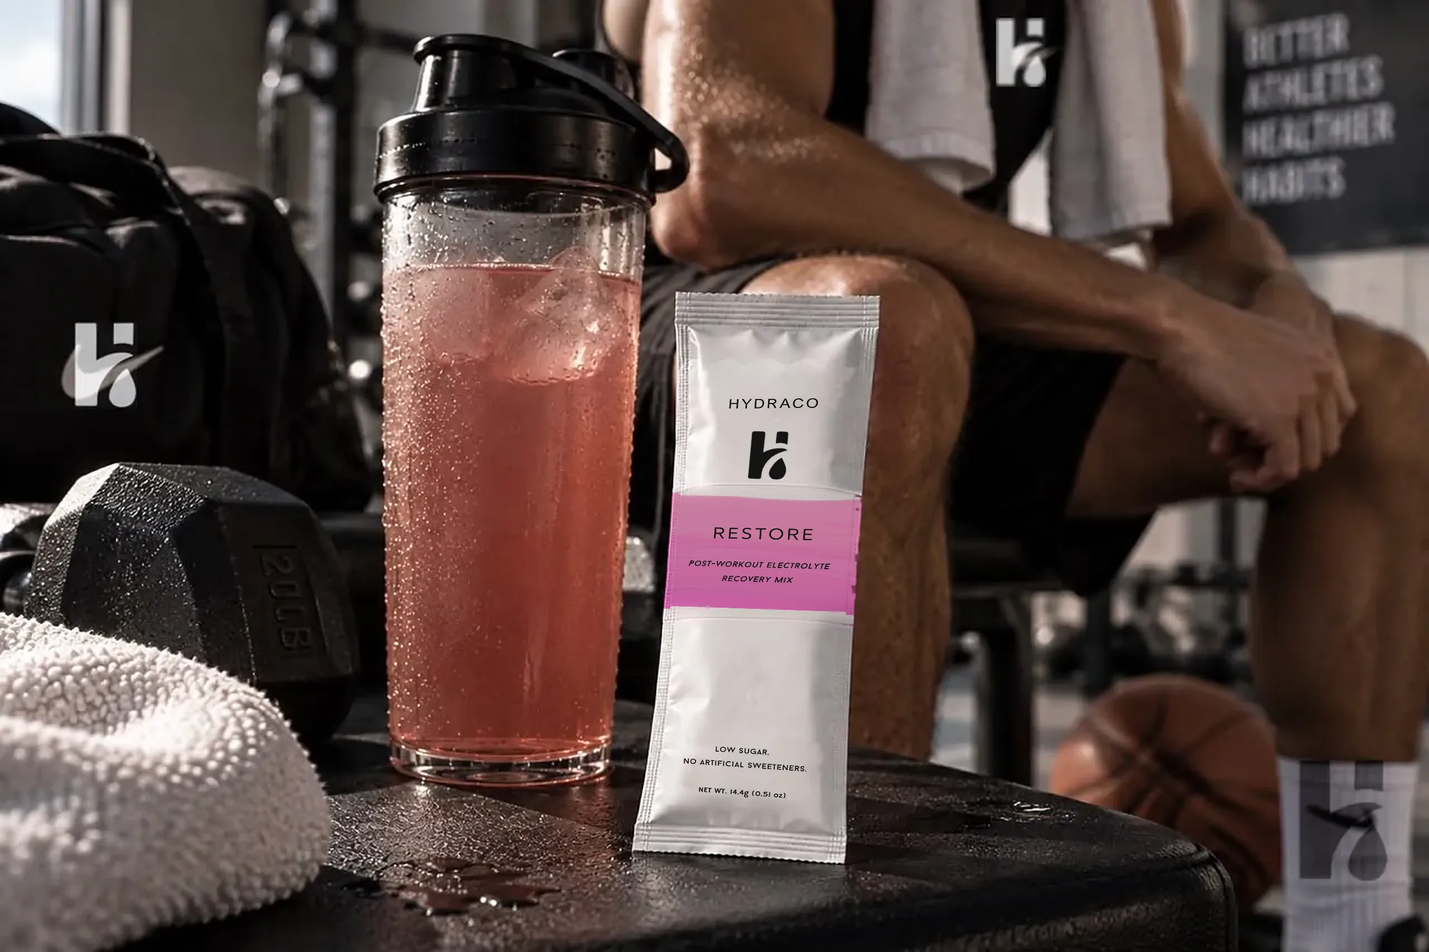
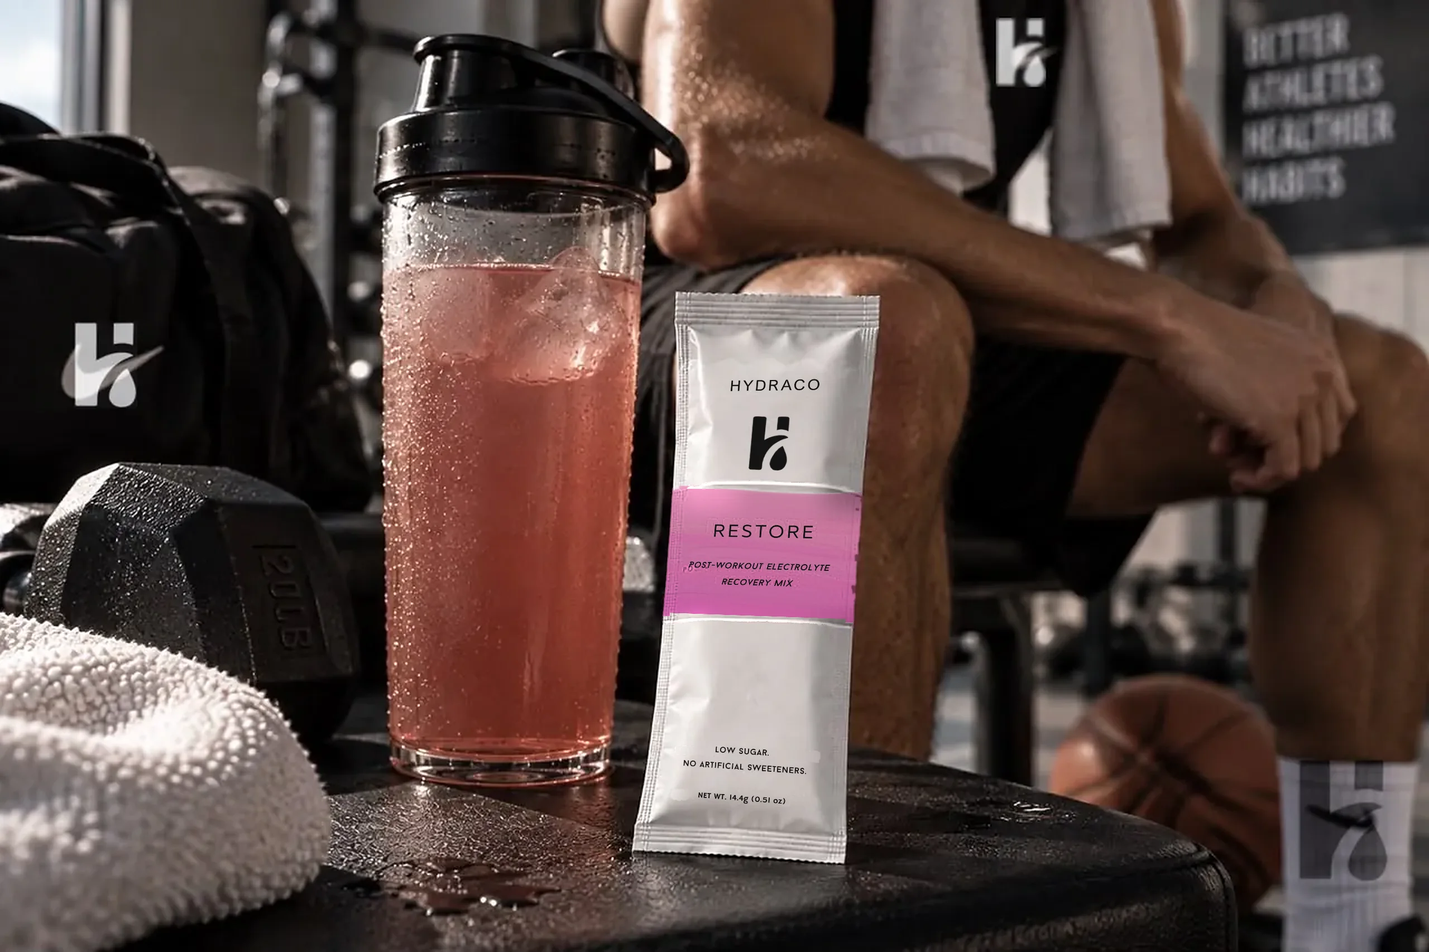
Printed-on pack labels, overflowing cup, printed stick pack, pinned nav
- Re-print pack labels so they take on the foil's own wrinkles, crimps
  and sheen (smooth light x real texture, only changed pixels replaced)
- The sketched cup spills past full: particle fluid with gravity,
  pressure, viscosity and cohesion; tilting pours from the low lip
- Drawn stick pack is a white printed pouch with crimped seals, no label
- Nav stays pinned (overflow-x:clip so sticky works); more logo spacing

Changed region(s): [[0.4688, 0.4039, 0.625, 0.5592], [0.4688, 0.5903, 0.5938, 0.6524], [0.5, 0.7767, 0.5625, 0.8388]]

diff --git a/index.html b/index.html
@@ -22,13 +22,13 @@
 <meta property="og:title" content="Hydraco Restore — Post-Workout Electrolyte Recovery Mix">
 <meta property="og:description" content="Hydraco Restore is a strawberry lemonade post-workout electrolyte recovery mix — low sugar, no artificial sweeteners, with tart cherry and pomegranate. Designed for recovery, not stimulation.">
 <meta property="og:url" content="https://www.drinkhydraco.com/">
-<meta property="og:image" content="https://www.drinkhydraco.com/images/og.jpg?v=pack3">
+<meta property="og:image" content="https://www.drinkhydraco.com/images/og.jpg?v=pack5">
 <meta property="og:image:width" content="1200">
 <meta property="og:image:height" content="630">
 <meta property="og:image:alt" content="A Hydraco Restore stick pack beside a glass of the prepared drink in a gym">
 <meta name="twitter:card" content="summary_large_image">
-<meta name="twitter:image" content="https://www.drinkhydraco.com/images/og.jpg?v=pack3">
-<script type="application/ld+json">[{"@context": "https://schema.org", "@type": "Organization", "name": "Hydraco", "url": "https://www.drinkhydraco.com/", "logo": "https://www.drinkhydraco.com/images/apple-touch-icon.png", "email": "hydracompanymd@gmail.com", "sameAs": ["https://www.instagram.com/hydracofficial"]}, {"@context": "https://schema.org", "@type": "Product", "name": "Hydraco Restore", "description": "Hydraco Restore is a strawberry lemonade post-workout electrolyte recovery mix — low sugar, no artificial sweeteners, with tart cherry and pomegranate. Designed for recovery, not stimulation.", "image": "https://www.drinkhydraco.com/images/og.jpg?v=pack3", "brand": {"@type": "Brand", "name": "Hydraco"}, "category": "Electrolyte drink mix", "offers": {"@type": "AggregateOffer", "priceCurrency": "USD", "lowPrice": "2.45", "highPrice": "89.55", "offerCount": 4, "availability": "https://schema.org/InStock", "url": "https://www.drinkhydraco.com/#order"}}, {"@context": "https://schema.org", "@type": "FAQPage", "mainEntity": [{"@type": "Question", "name": "How do I use it?", "acceptedAnswer": {"@type": "Answer", "text": "Pour one stick pack into 16–32 oz of cold water, shake or stir, and drink it after training. One stick is one serving."}}, {"@type": "Question", "name": "How do I pay?", "acceptedAnswer": {"@type": "Answer", "text": "By Zelle, Apple Cash, or card — pick one in the order form. Card and Apple Pay payments go through Stripe's secure checkout; we never see or store your card number."}}, {"@type": "Question", "name": "Where do you deliver, and what does it cost?", "acceptedAnswer": {"@type": "Answer", "text": "Delivery is free in NYC and in Maryland, D.C. and Virginia, within about an hour of our office. Anywhere else, including internationally, email us for a delivery quote before you order."}}, {"@type": "Question", "name": "When will my order arrive?", "acceptedAnswer": {"@type": "Answer", "text": "Usually within a few days. Restore is made in small batches and orders are filled in the order they come in; we email you to confirm your delivery date, usually within one business day."}}, {"@type": "Question", "name": "How should I store it?", "acceptedAnswer": {"@type": "Answer", "text": "In a cool, dry place. Best before January 2027."}}, {"@type": "Question", "name": "Is it safe for me?", "acceptedAnswer": {"@type": "Answer", "text": "It's a food, not a medicine. The full notice, allergen and cottage-food details are in the footer below."}}]}]</script>
+<meta name="twitter:image" content="https://www.drinkhydraco.com/images/og.jpg?v=pack5">
+<script type="application/ld+json">[{"@context": "https://schema.org", "@type": "Organization", "name": "Hydraco", "url": "https://www.drinkhydraco.com/", "logo": "https://www.drinkhydraco.com/images/apple-touch-icon.png", "email": "hydracompanymd@gmail.com", "sameAs": ["https://www.instagram.com/hydracofficial"]}, {"@context": "https://schema.org", "@type": "Product", "name": "Hydraco Restore", "description": "Hydraco Restore is a strawberry lemonade post-workout electrolyte recovery mix — low sugar, no artificial sweeteners, with tart cherry and pomegranate. Designed for recovery, not stimulation.", "image": "https://www.drinkhydraco.com/images/og.jpg?v=pack5", "brand": {"@type": "Brand", "name": "Hydraco"}, "category": "Electrolyte drink mix", "offers": {"@type": "AggregateOffer", "priceCurrency": "USD", "lowPrice": "2.45", "highPrice": "89.55", "offerCount": 4, "availability": "https://schema.org/InStock", "url": "https://www.drinkhydraco.com/#order"}}, {"@context": "https://schema.org", "@type": "FAQPage", "mainEntity": [{"@type": "Question", "name": "How do I use it?", "acceptedAnswer": {"@type": "Answer", "text": "Pour one stick pack into 16–32 oz of cold water, shake or stir, and drink it after training. One stick is one serving."}}, {"@type": "Question", "name": "How do I pay?", "acceptedAnswer": {"@type": "Answer", "text": "By Zelle, Apple Cash, or card — pick one in the order form. Card and Apple Pay payments go through Stripe's secure checkout; we never see or store your card number."}}, {"@type": "Question", "name": "Where do you deliver, and what does it cost?", "acceptedAnswer": {"@type": "Answer", "text": "Delivery is free in NYC and in Maryland, D.C. and Virginia, within about an hour of our office. Anywhere else, including internationally, email us for a delivery quote before you order."}}, {"@type": "Question", "name": "When will my order arrive?", "acceptedAnswer": {"@type": "Answer", "text": "Usually within a few days. Restore is made in small batches and orders are filled in the order they come in; we email you to confirm your delivery date, usually within one business day."}}, {"@type": "Question", "name": "How should I store it?", "acceptedAnswer": {"@type": "Answer", "text": "In a cool, dry place. Best before January 2027."}}, {"@type": "Question", "name": "Is it safe for me?", "acceptedAnswer": {"@type": "Answer", "text": "It's a food, not a medicine. The full notice, allergen and cottage-food details are in the footer below."}}]}]</script>
 <meta name="theme-color" content="#00a9ac">
 <link rel="preconnect" href="https://fonts.googleapis.com">
 <link rel="preconnect" href="https://fonts.gstatic.com" crossorigin>
@@ -113,7 +113,9 @@
    every element's own box stays within the viewport - overflow-x:hidden
    on body alone doesn't stop it (that only clips body's own box; the
    root/viewport scroller still allows the drag). Needs to be on html too. */
-html{overflow-x:hidden}
+/* clip, not hidden: hidden turns html/body into scroll containers, which
+   silently breaks the sticky nav; clip stops sideways scroll without that */
+html{overflow-x:hidden;overflow-x:clip}
 /* on a phone every text size steps up a notch - the small labels and notes
    were the hard part to read */
 @media (max-width:640px){ html{font-size:17.5px} }
@@ -128,7 +130,7 @@ body{
   letter-spacing:.015em;
   font-weight:400;
   -webkit-font-smoothing:antialiased;
-  overflow-x:hidden;
+  overflow-x:hidden;overflow-x:clip;
 }
 
 img{max-width:100%;display:block}
@@ -179,7 +181,7 @@ section{padding-block:clamp(84px,11vw,168px)}
   border-bottom:1px solid var(--rule);
 }
 .nav-in{display:flex;align-items:center;gap:clamp(16px,3vw,44px);height:66px}
-.brand{display:flex;align-items:center;gap:11px;text-decoration:none;color:var(--ink)}
+.brand{display:flex;align-items:center;gap:18px;text-decoration:none;color:var(--ink)}
 .mark{
   width:19px;height:29px;flex:none;
   background-color:#000;--mark-base:#000;
@@ -696,6 +698,35 @@ body.fun-mode .pack-hint.hidden{transform:rotate(-9deg) translateY(-6px)}
 .pack-foot{margin-top:auto;text-align:center;color:#000}
 .pack-foot b{display:block;font-size:.5rem;letter-spacing:.14em;line-height:1.9;text-transform:uppercase;font-weight:700}
 .pack-foot span{display:block;margin-top:12px;font-size:.5rem;letter-spacing:.08em;font-weight:700;color:#000}
+/* printed straight onto a white stick pack, like the real one - no
+   separate label: matte white film, soft shading where it curves at the
+   sides, and crimped heat seals at both ends */
+.pack{
+  padding:0;border:none;border-radius:2px;
+  background:
+    linear-gradient(180deg, rgba(255,255,255,.0) 0%, rgba(255,255,255,.35) 40%, rgba(0,0,0,.025) 100%),
+    linear-gradient(90deg, #dfe1e1 0%, #f3f4f3 7%, #fdfdfc 22%, #ffffff 50%, #f9f9f8 78%, #eceded 93%, #dcdede 100%);
+  box-shadow:0 1px 2px rgba(14,20,20,.12), 0 18px 40px -18px rgba(14,40,40,.35);
+}
+.pack::before,.pack::after{
+  content:"";position:absolute;left:0;right:0;height:5.5%;z-index:1;pointer-events:none;
+  background:
+    repeating-linear-gradient(180deg, rgba(0,0,0,.075) 0 1px, rgba(255,255,255,.6) 1px 2px, transparent 2px 4px),
+    linear-gradient(90deg, #d9dbdb, #f1f2f1 20%, #f7f7f6 50%, #eeefee 80%, #d7d9d9);
+}
+.pack::before{top:0}
+.pack::after{bottom:0}
+.pack-tear{
+  background:
+    repeating-linear-gradient(180deg, rgba(0,0,0,.075) 0 1px, rgba(255,255,255,.6) 1px 2px, transparent 2px 4px),
+    linear-gradient(90deg, #d9dbdb, #f1f2f1 20%, #f7f7f6 50%, #eeefee 80%, #d7d9d9);
+  height:5.5%;
+}
+.pack-seal{display:none}
+.pack-sticker{
+  background:transparent;box-shadow:none;border-radius:0;
+  padding:calc(20px + 5.5%) 14px calc(16px + 5.5%);
+}
 
 /* ---------- marquee strip ---------- */
 .strip{
@@ -2051,7 +2082,7 @@ body.fun-mode .galaxy-bg{opacity:1}
 /* sits under the order form now, so Order lands straight on the packs + fields */
 /* "Order" links land on the heading, packs and form, not on empty padding:
    skip the section's top padding, stopping just under the sticky nav */
-#order{scroll-margin-top:calc(18px - clamp(84px,11vw,168px))}
+#order{scroll-margin-top:calc(78px - clamp(84px,11vw,168px))}
 .order .sec-head{gap:14px;margin-bottom:0;max-width:none;align-items:flex-start}
 .order .sec-head h2 br{display:none}
 .order .sec-head p{max-width:62ch;font-size:1.02rem !important;line-height:1.6 !important}
@@ -2215,7 +2246,7 @@ body.fun-mode .galaxy-bg{opacity:1}
     </div>
 
     <div class="hero-photo rv">
-      <img src="/images/hero.webp?v=pack4" class="photo-frame" alt="HYDRACO Restore post-workout electrolyte recovery mix packet, standing beside a glass of the prepared drink" width="853" height="1280" fetchpriority="high">
+      <img src="/images/hero.webp?v=pack5" class="photo-frame" alt="HYDRACO Restore post-workout electrolyte recovery mix packet, standing beside a glass of the prepared drink" width="853" height="1280" fetchpriority="high">
     </div>
   </header>
 
@@ -2235,7 +2266,7 @@ body.fun-mode .galaxy-bg{opacity:1}
   <section id="why">
    <div class="why-grid">
     <div class="why-photo rv">
-      <img src="/images/why-recovery.webp?v=pack3" class="photo-frame" alt="HYDRACO Restore electrolyte recovery drink after training" loading="lazy" decoding="async" width="1280" height="853">
+      <img src="/images/why-recovery.webp?v=pack5" class="photo-frame" alt="HYDRACO Restore electrolyte recovery drink after training" loading="lazy" decoding="async" width="1280" height="853">
     </div>
     <div class="why-text rv">
     <div class="sec-head">
@@ -2273,7 +2304,7 @@ body.fun-mode .galaxy-bg{opacity:1}
 
   <!-- ============ GYM / RECOVERY BAND ============ -->
   <div class="gym-band rv" aria-label="HYDRACO Restore in a post-workout gym setting">
-    <img src="/images/gym-band.webp?v=pack4" alt="HYDRACO Restore electrolyte packet and drink in a post-workout gym setting" loading="lazy" decoding="async" width="1280" height="853">
+    <img src="/images/gym-band.webp?v=pack5" alt="HYDRACO Restore electrolyte packet and drink in a post-workout gym setting" loading="lazy" decoding="async" width="1280" height="853">
     <div class="gym-band-copy">
       <p>Built for the hours after, not the minutes during.</p>
     </div>
@@ -2488,8 +2519,8 @@ body.fun-mode .galaxy-bg{opacity:1}
         </div>
 
         <div class="inside-photos rv">
-          <img src="/images/inside-packet.webp?v=pack4" class="photo-frame" alt="HYDRACO Restore electrolyte packet beside a glass of the prepared electrolyte drink" loading="lazy" width="608" height="760">
-          <img src="/images/inside-pour.webp?v=pack4" class="photo-frame" alt="HYDRACO Restore electrolyte powder being poured into an iced drink" loading="lazy" width="760" height="506">
+          <img src="/images/inside-packet.webp?v=pack5" class="photo-frame" alt="HYDRACO Restore electrolyte packet beside a glass of the prepared electrolyte drink" loading="lazy" width="608" height="760">
+          <img src="/images/inside-pour.webp?v=pack5" class="photo-frame" alt="HYDRACO Restore electrolyte powder being poured into an iced drink" loading="lazy" width="760" height="506">
         </div>
       </div>
 
@@ -2912,7 +2943,7 @@ body.fun-mode .galaxy-bg{opacity:1}
       </form>
 
       <div class="preorder-photo rv">
-        <img src="/images/preorder.webp?v=pack4" class="photo-frame" alt="Three HYDRACO Restore electrolyte recovery mix packets" loading="lazy" width="720" height="900">
+        <img src="/images/preorder.webp?v=pack5" class="photo-frame" alt="Three HYDRACO Restore electrolyte recovery mix packets" loading="lazy" width="720" height="900">
       </div>
 
     </div>
@@ -4631,10 +4662,235 @@ document.querySelectorAll(".ingx-bar > span").forEach(el => barIO.observe(el));
     }
   }
 
-  art.addEventListener("mouseenter", () => setLevel(level + 0.025));
-  art.addEventListener("click", () => { setLevel(level + 0.07); sprinkle(16); });
+  /* ---- overflow: past full, the extra spills over the rim as real fluid ----
+     The surface stays level, so tipping the cup lowers its rim on one side:
+     anything above that lip spills and the level drops by what spilled.
+     The spill is a small particle fluid (double-density relaxation, after
+     Clavet et al.) with gravity, pressure, viscosity and cohesion - it runs
+     down the glass, drips off, splashes and pools, and never quite the same
+     way twice. */
+  const CUP = { rimL:[250,176], rimR:[438,176], baseR:[412,432], baseL:[276,432] };
+  const LIQ_H = 160, RIM_HALF = 94;
+  function capacity(){
+    const t = Math.tan(Math.min(80, Math.abs(tiltDeg)) * Math.PI / 180);
+    return Math.max(0.2, MAX_LEVEL - (RIM_HALF * t) / LIQ_H);
+  }
+  function pour(d){
+    const want = level + d, cap = capacity();
+    if (want > cap + 0.001){ overflow(want - Math.max(cap, level)); setLevel(cap); }
+    else { setLevel(want); }
+  }
+  const fluid = (function(){
+    let cv = null, ctx = null, running = false, last = 0, color = "#fb4fc0";
+    const P = [];                 // particles, in page coordinates
+    const H = 11, REST = 4, K = 1400, KNEAR = 2600, G = 2300;
+    function ensure(){
+      if (cv) { return; }
+      cv = document.createElement("canvas");
+      cv.setAttribute("aria-hidden", "true");
+      cv.style.cssText = "position:fixed;inset:0;width:100vw;height:100vh;pointer-events:none;z-index:60";
+      document.body.appendChild(cv);
+      ctx = cv.getContext("2d");
+      size();
+      window.addEventListener("resize", size);
+    }
+    function size(){
+      const dpr = Math.min(2, window.devicePixelRatio || 1);
+      cv.width = Math.round(innerWidth * dpr); cv.height = Math.round(innerHeight * dpr);
+      ctx.setTransform(dpr, 0, 0, dpr, 0, 0);
+    }
+    function geom(){
+      const ref = art.querySelector(".cup-outline");
+      const m = ref && ref.getScreenCTM && ref.getScreenCTM();
+      if (!m) { return null; }
+      const pt = (xy) => { const q = new DOMPoint(xy[0], xy[1]).matrixTransform(m); return [q.x + scrollX, q.y + scrollY]; };
+      const g = { rimL:pt(CUP.rimL), rimR:pt(CUP.rimR), baseR:pt(CUP.baseR), baseL:pt(CUP.baseL) };
+      const sr = stage.getBoundingClientRect();
+      g.floorY = Math.max(g.baseL[1], g.baseR[1]);
+      g.floorX0 = sr.left + scrollX - 30; g.floorX1 = sr.right + scrollX + 30;
+      g.poly = [g.rimL, g.rimR, g.baseR, g.baseL];
+      g.scale = Math.hypot(g.rimR[0] - g.rimL[0], g.rimR[1] - g.rimL[1]) / 188;
+      return g;
+    }
+    let G0 = null;
+    function spawn(n){
+      if (REDUCED) { return; }
+      ensure();
+      color = getComputedStyle(document.documentElement).getPropertyValue("--pink").trim() || color;
+      G0 = geom(); if (!G0) { return; }
+      // which lip: the lower one when tipped, otherwise either - or both
+      const lowRight = G0.rimR[1] > G0.rimL[1] + 1, lowLeft = G0.rimL[1] > G0.rimR[1] + 1;
+      const r = Math.random();
+      const sides = lowRight ? ["R"] : lowLeft ? ["L"] : (r < 0.42 ? ["L"] : r < 0.84 ? ["R"] : ["L", "R"]);
+      const slosh = (Math.random() - 0.5) * 120;   // the surface is never still
+      const burst = 0.6 + Math.random() * 0.9;     // some pours gush, some trickle
+      // liquid leaves a rim in a few uneven glugs, each one a connected clump
+      const glugs = 2 + Math.floor(Math.random() * 3);
+      const glugAt = Array.from({ length: glugs }, (_, g) => g * (110 + Math.random() * 160) + Math.random() * 40);
+      for (let i = 0; i < n; i++){
+        const side = sides[i % sides.length];
+        const lip = side === "R" ? G0.rimR : G0.rimL, out = side === "R" ? 1 : -1;
+        const delay = glugAt[i % glugs] + Math.random() * 70;
+        setTimeout(() => {
+          if (P.length > 900) { return; }
+          P.push({
+            // spread along the lip at roughly the fluid's rest spacing
+            x: lip[0] + out * (1 + Math.random() * 7) * G0.scale,
+            y: lip[1] - (1 + Math.random() * 7) * G0.scale,
+            vx: out * (8 + Math.random() * 70) * burst + slosh * 0.4 * Math.random(),
+            vy: -25 * Math.random() * burst + 15,
+            px: 0, py: 0, age: 0,
+            life: 5 + Math.random() * 4,
+            stick: Math.random() < 0.55,          // some cling to the glass, some let go
+            r: (3 + Math.random() * 2) * Math.max(0.7, G0.scale)
+          });
+          if (!running){ running = true; last = performance.now(); requestAnimationFrame(step); }
+        }, delay);
+      }
+    }
+    function insideCup(x, y, poly){
+      for (let i = 0; i < 4; i++){
+        const a = poly[i], b = poly[(i + 1) % 4];
+        if ((b[0] - a[0]) * (y - a[1]) - (b[1] - a[1]) * (x - a[0]) < 0) { return false; }
+      }
+      return true;
+    }
+    function nearestEdge(x, y, poly){
+      let best = null;
+      for (let i = 0; i < 4; i++){
+        const a = poly[i], b = poly[(i + 1) % 4];
+        const ex = b[0] - a[0], ey = b[1] - a[1], L2 = ex * ex + ey * ey;
+        const t = Math.max(0, Math.min(1, ((x - a[0]) * ex + (y - a[1]) * ey) / L2));
+        const qx = a[0] + ex * t, qy = a[1] + ey * t, d = Math.hypot(x - qx, y - qy);
+        if (!best || d < best.d){ const L = Math.sqrt(L2); best = { d, qx, qy, nx: ey / L, ny: -ex / L, i }; }
+      }
+      return best;
+    }
+    function step(now){
+      const dt = Math.min(1 / 30, (now - last) / 1000) || 1 / 60; last = now;
+      G0 = geom() || G0;
+      if (!G0){ running = false; return; }
+      const sub = 2, h = dt / sub, poly = G0.poly;
+      // the poly winds clockwise on screen (y down) - normals from nearestEdge point outward
+      for (let s = 0; s < sub; s++){
+        for (const p of P){
+          p.vy += G * h;
+          p.px = p.x; p.py = p.y;
+          p.x += p.vx * h; p.y += p.vy * h;
+        }
+        // neighbours via a spatial hash
+        const grid = new Map(), key = (i, j) => i * 73856093 ^ j * 19349663;
+        P.forEach((p, idx) => {
+          const k = key(Math.floor(p.x / H), Math.floor(p.y / H));
+          let c = grid.get(k); if (!c){ c = []; grid.set(k, c); } c.push(idx);
+        });
+        const pairs = [];
+        P.forEach((p, i) => {
+          const ci = Math.floor(p.x / H), cj = Math.floor(p.y / H);
+          let rho = 0, rhoN = 0; const nb = [];
+          for (let a = -1; a <= 1; a++) for (let b = -1; b <= 1; b++){
+            const c = grid.get(key(ci + a, cj + b)); if (!c) { continue; }
+            for (const j of c){
+              if (j === i) { continue; }
+              const q = P[j], dx = q.x - p.x, dy = q.y - p.y, d = Math.hypot(dx, dy);
+              if (d < H && d > 1e-4){ const w = 1 - d / H; rho += w * w; rhoN += w * w * w; nb.push([j, dx / d, dy / d, w]); }
+            }
+          }
+          const pr = K * (rho - REST) * 1e-4, prN = KNEAR * rhoN * 1e-4;
+          for (const [j, ux, uy, w] of nb){
+            const D = Math.min(0.6, h * h * (pr * w + prN * w * w) * 3600 * 0.5);
+            P[j].x += ux * D; P[j].y += uy * D; p.x -= ux * D; p.y -= uy * D;
+            if (j > i) { pairs.push([p, P[j], w]); }
+          }
+        });
+        for (const p of P){
+          // the glass: never inside it; clingers run down its outside face
+          if (insideCup(p.x, p.y, poly)){
+            const e = nearestEdge(p.x, p.y, poly);
+            if (e.i === 0) { p.age = p.life + 1; continue; }   // fell back in through the mouth: rejoins the drink
+            p.x = e.qx + e.nx * 0.6; p.y = e.qy + e.ny * 0.6;
+          } else if (p.stick){
+            const e = nearestEdge(p.x, p.y, poly);
+            if (e.i !== 0 && e.d < 6 * G0.scale && p.y < G0.floorY - 2){
+              p.x -= e.nx * Math.min(e.d, 1.2);   // adhesion pulls it back onto the glass
+              p.y -= e.ny * Math.min(e.d, 1.2) * 0.3;
+              // and slows it, like water running down a wall rather than falling
+              p.y = p.py + (p.y - p.py) * 0.93;
+            } else if (e.d > 10 * G0.scale){ p.stick = false; }
+          }
+          // the table: splash, then spread out and settle
+          if (p.y > G0.floorY && p.x > G0.floorX0 && p.x < G0.floorX1 && p.py <= G0.floorY + 2){
+            const impact = (p.y - p.py) / h;
+            p.y = G0.floorY - Math.random() * 0.5;
+            if (impact > 420 && P.length < 900 && Math.random() < 0.18){
+              const sp = Math.min(260, impact * (0.08 + Math.random() * 0.14));
+              P.push({ x:p.x, y:p.y - 1, px:p.x, py:p.y - 1, vx:(Math.random() - 0.5) * sp * 1.6, vy:-sp,
+                       age:0, life:1.2 + Math.random() * 1.5, stick:false, r:p.r * (0.4 + Math.random() * 0.3) });
+            }
+            p.px = p.x - (p.x - p.px) * 0.55;    // friction on the surface
+            p.py = p.y + Math.min(0, p.y - p.py) * 0.2;
+          }
+        }
+        for (const p of P){ p.vx = (p.x - p.px) / h; p.vy = (p.y - p.py) / h; }
+        // viscosity: neighbours drag each other along
+        for (const [a, b, w] of pairs){
+          const k = 0.06 * w;
+          const mx = (b.vx - a.vx) * k, my = (b.vy - a.vy) * k;
+          a.vx += mx; a.vy += my; b.vx -= mx; b.vy -= my;
+        }
+        step.pairs = pairs;
+      }
+      // age out: puddles soak in / evaporate, strays fall off the page
+      const bottom = scrollY + innerHeight + 300;
+      for (let i = P.length - 1; i >= 0; i--){
+        const p = P[i]; p.age += dt;
+        if (p.age > p.life || p.y > bottom) { P.splice(i, 1); }
+      }
+      draw(step.pairs || []);
+      if (P.length){ requestAnimationFrame(step); } else { running = false; ctx.clearRect(0, 0, innerWidth, innerHeight); }
+    }
+    function draw(pairs){
+      ctx.clearRect(0, 0, innerWidth, innerHeight);
+      const ox = scrollX, oy = scrollY;
+      ctx.fillStyle = color; ctx.strokeStyle = color; ctx.lineCap = "round";
+      // cohesion: close neighbours read as one body of liquid, not dots
+      for (const [a, b, w] of pairs){
+        if (a.age > a.life || b.age > b.life) { continue; }
+        if (Math.abs(a.x - b.x) > 2 * H || Math.abs(a.y - b.y) > 2 * H) { continue; }
+        const f = Math.min(fade(a), fade(b));
+        ctx.globalAlpha = 0.9 * f;
+        ctx.lineWidth = Math.min(a.r, b.r) * 1.7 * (0.6 + w);
+        ctx.beginPath(); ctx.moveTo(a.x - ox, a.y - oy); ctx.lineTo(b.x - ox, b.y - oy); ctx.stroke();
+      }
+      for (const p of P){
+        const f = fade(p), sp = Math.min(1.8, Math.hypot(p.vx, p.vy) / 900);
+        ctx.globalAlpha = 0.92 * f;
+        ctx.beginPath();
+        // fast drops stretch along their direction of travel
+        const ang = Math.atan2(p.vy, p.vx);
+        ctx.ellipse(p.x - ox, p.y - oy, p.r * (1 + sp * 0.8), p.r * (1 - sp * 0.25), ang, 0, Math.PI * 2);
+        ctx.fill();
+      }
+      ctx.globalAlpha = 1;
+    }
+    function fade(p){ const t = p.life - p.age; return t > 1.2 ? 1 : Math.max(0, t / 1.2); }
+    return { spawn };
+  })();
+  function overflow(excess){
+    if (REDUCED || excess <= 0) { return; }
+    fluid.spawn(Math.max(8, Math.min(160, Math.round(excess * 520))));
+  }
+  // tipping it (scrolling past) also spills whatever is now above the lower lip
+  const _updateTilt = updateTilt;
+  updateTilt = function(px){
+    _updateTilt(px);
+    const cap = capacity();
+    if (level > cap + 0.012){ overflow(level - cap); setLevel(cap); }
+  };
+  art.addEventListener("mouseenter", () => pour(0.025));
+  art.addEventListener("click", () => { pour(0.07); sprinkle(16); });
   art.addEventListener("keydown", (e) => {
-    if (e.key === "Enter" || e.key === " "){ e.preventDefault(); setLevel(level + 0.07); sprinkle(16); }
+    if (e.key === "Enter" || e.key === " "){ e.preventDefault(); pour(0.07); sprinkle(16); }
   });
 })();
 
